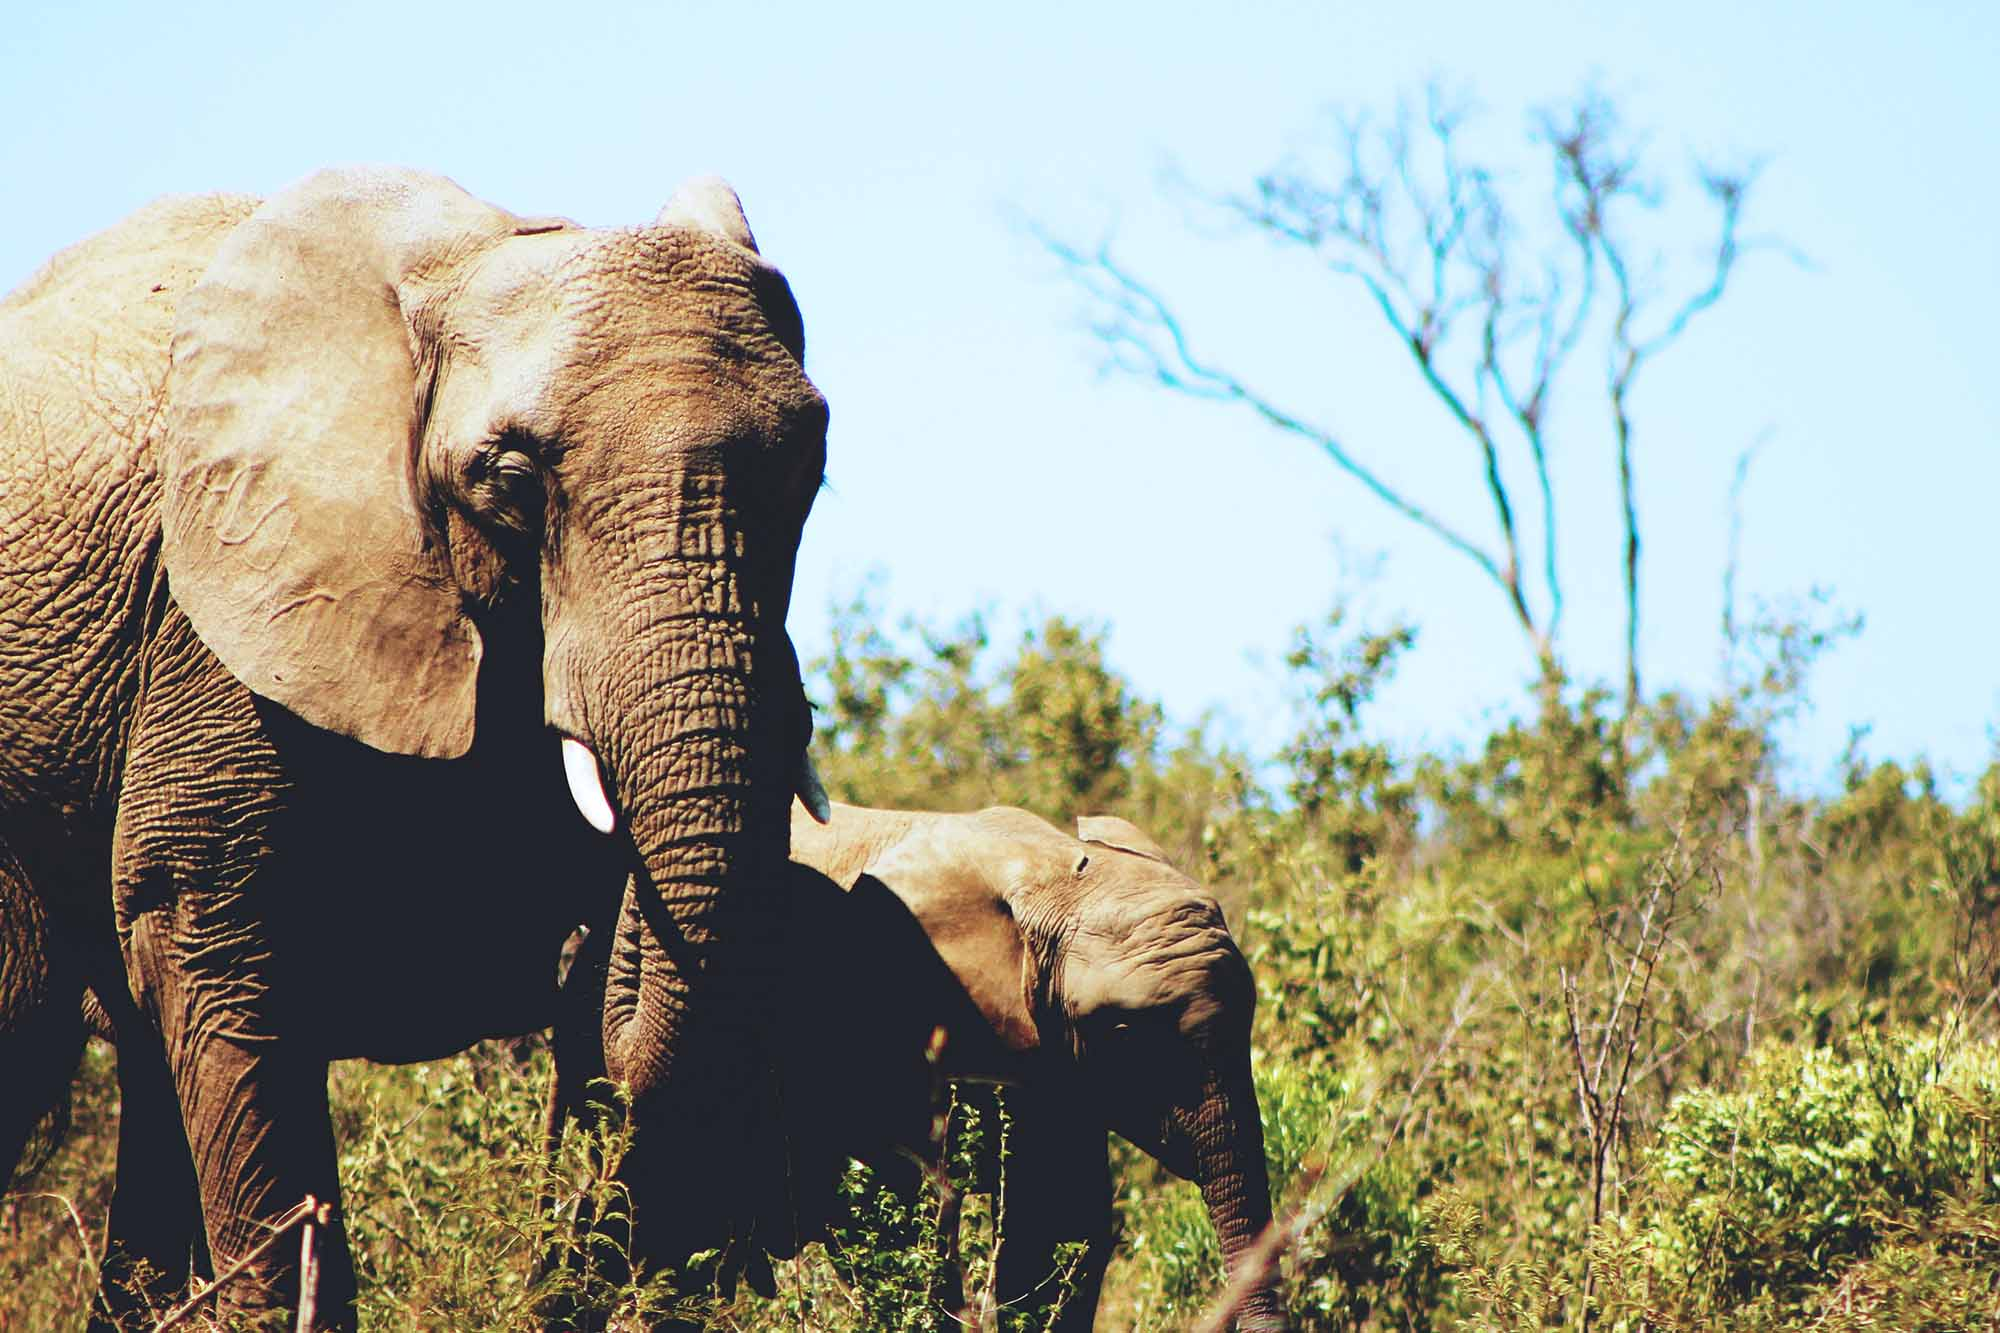
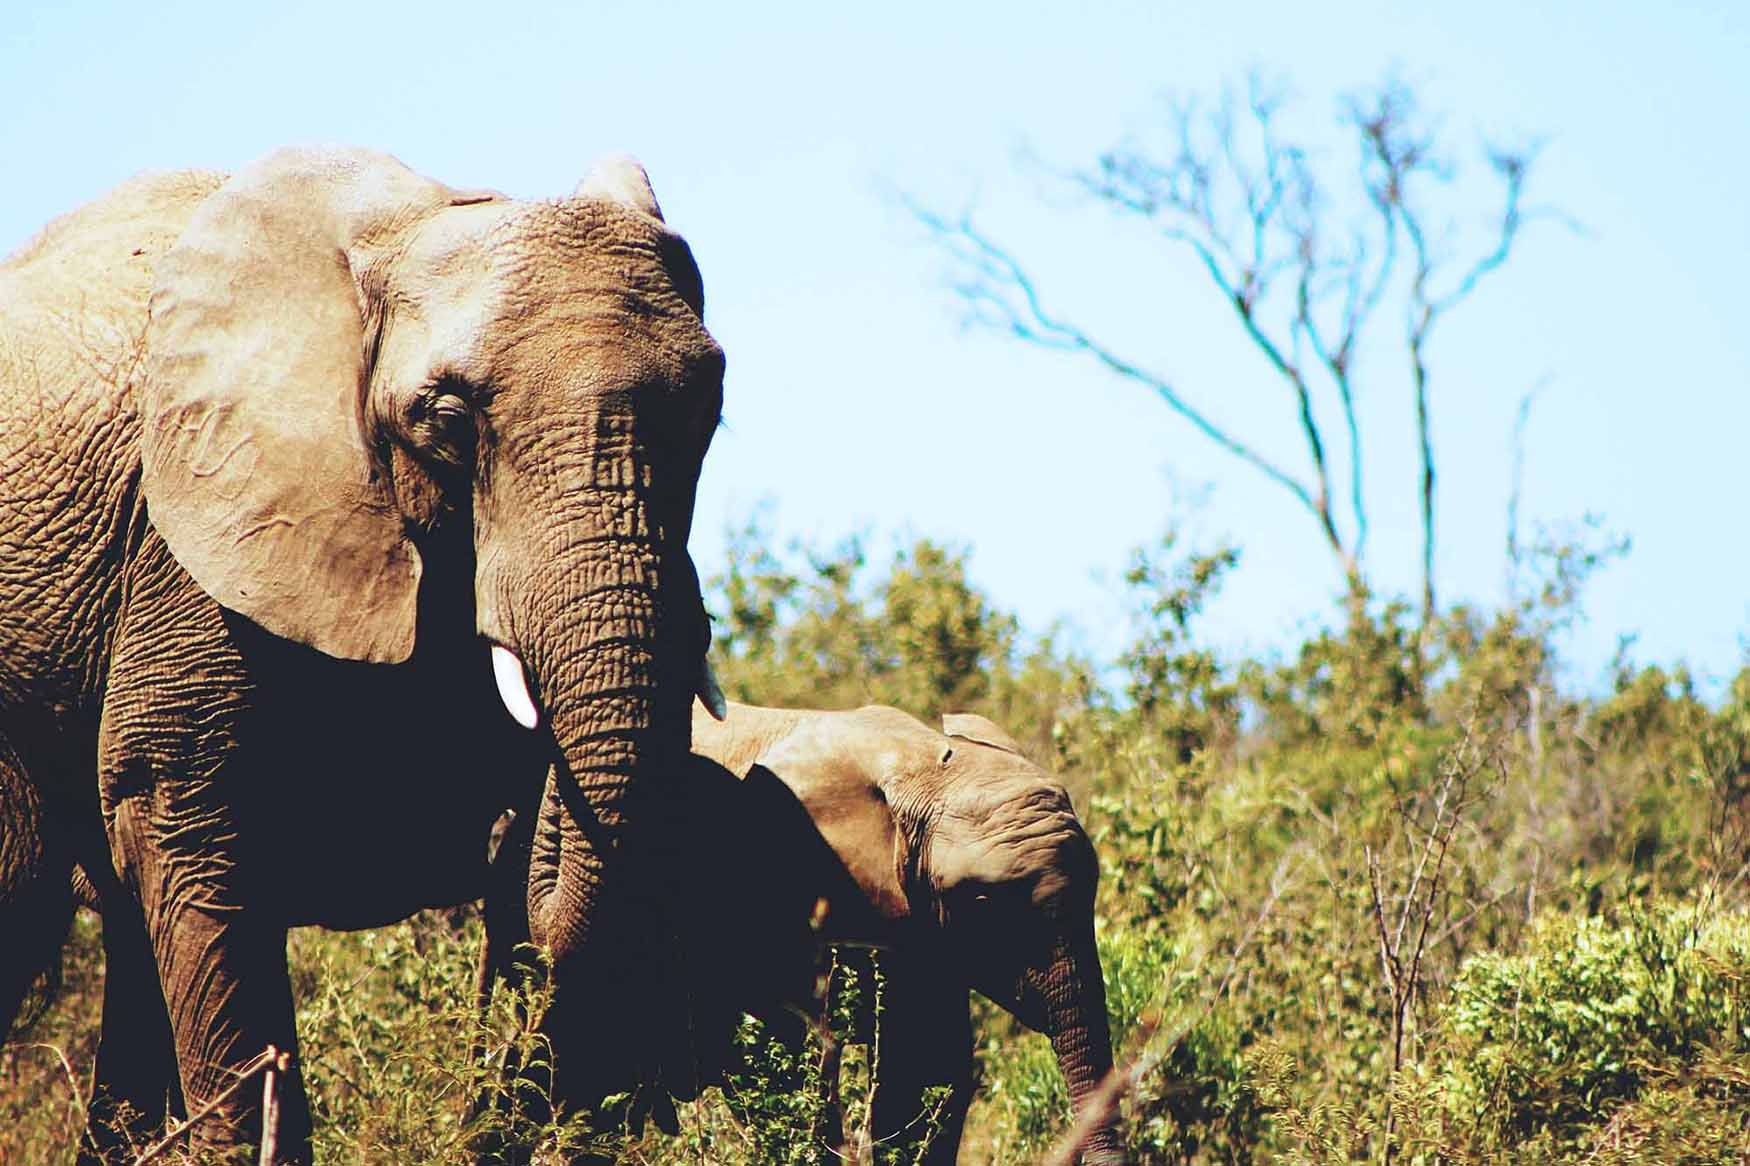
Change image size

diff --git a/index.html b/index.html
@@ -4,6 +4,8 @@
   <meta charset="utf-8">
   <title>Animal rescue site</title>
   <meta name="viewport" content="width=device-width,initial-scale=1">
+  <link href="favicon.ico" rel="shortcut icon">
+  <link rel="apple-touch-icon" href="favicon-196.png">
   <link href="css/modules.css" rel="stylesheet">
   <link href="css/grid.css" rel="stylesheet">
   <link href="css/type.css" rel="stylesheet">
@@ -12,13 +14,18 @@
 </head>
 <body>
 
+  <figure>
+  <div class="embed embed-4by3">
+    <img class="embed-item" src="dinos.jpg" alt="">
+  </div>
+</figure>
+
   <ul class="skip-links">
     <li><a href="#nav">Jump to nav</a></li>
     <li><a href="#main">Jump to main</a></li>
     <li><a href="#content">Jump to content</a></li>
     <li><a href="#about">Jump to about</a></li>
   </ul>
-
 
   <header role="banner">
     <div class="grid">
@@ -80,8 +87,6 @@
     </section>
   </main>
 
-
-
   <footer role="contentinfo" id="footer" tabindex="0">
     <div class="grid max-width micro pad-top">
       <div class="unit xs-1 s-1 m-1 l-1 xl-1 push-1 foot">
@@ -91,7 +96,6 @@
       </div>
     </div>
   </footer>
-
 
 </body>
 </html>

diff --git a/rescues.html b/rescues.html
@@ -4,6 +4,8 @@
   <meta charset="utf-8">
   <title>Rescues</title>
   <meta name="viewport" content="width=device-width,initial-scale=1">
+  <link href="favicon.ico" rel="shortcut icon">
+  <link rel="apple-touch-icon" href="favicon-196.png">
   <link href="css/modules.css" rel="stylesheet">
   <link href="css/grid.css" rel="stylesheet">
   <link href="css/type.css" rel="stylesheet">
@@ -19,10 +21,8 @@
     <li><a href="#about">Jump to about</a></li>
   </ul>
 
-
   <header role="banner" class="max-width">
     <div class="grid">
-
 
       <div class="gutter text-right pad-t-2 unit xs-1 s-1 m-1 l-3-4 xl-3-4 ">
         <nav tabindex="0" id="nav" role="navigation">
@@ -124,8 +124,6 @@
     </div>
   </section>
 
-
-
   <footer role="contentinfo" id="footer" tabindex="0">
     <div class="grid max-width micro pad-top">
       <div class="unit xs-1 s-1 m-1 l-1 xl-1 push-1 foot">
@@ -135,7 +133,7 @@
       </div>
     </div>
   </footer>
+</main>
 
-
-    </body>
-    </html>
+</body>
+</html>

diff --git a/adopt.html b/adopt.html
@@ -4,6 +4,8 @@
   <meta charset="utf-8">
   <title>Adoptions</title>
   <meta name="viewport" content="width=device-width,initial-scale=1">
+  <link href="favicon.ico" rel="shortcut icon">
+  <link rel="apple-touch-icon" href="favicon-196.png">
   <link href="css/modules.css" rel="stylesheet">
   <link href="css/grid.css" rel="stylesheet">
   <link href="css/type.css" rel="stylesheet">
@@ -19,10 +21,8 @@
     <li><a href="#about">Jump to about</a></li>
   </ul>
 
-
   <header role="banner" class="max-width">
     <div class="grid">
-
 
       <div class="gutter text-right pad-t-2 unit xs-1 s-1 m-1 l-3-4 xl-3-4 ">
         <nav tabindex="0" id="nav" role="navigation">
@@ -218,7 +218,6 @@
         </div>
       </div>
     </footer>
-
 
     </body>
     </html>

diff --git a/css/main.css b/css/main.css
@@ -28,7 +28,7 @@ header nav li a:hover {
 }
 
 .banner-container::before {
-  background: rgba(0, 0, 0, 0)-webkit-linear-gradient(bottom left, rgba(150, 150, 150, .5)0%, rgba(150, 150, 150, .5)100%) repeat;
+  background: rgba(0, 0, 0, 0) -webkit-linear-gradient(bottom left, rgba(150, 150, 150, .5) 0%, rgba(150, 150, 150, .5) 100%) repeat;
   content: "";
   position: absolute;
   display: block;

diff --git a/css/modules.css b/css/modules.css
@@ -10,6 +10,9 @@
 @-webkit-viewport { width: device-width; scale: 1; }
 @viewport { width: device-width; scale: 1; }
 
+<link href="favicon.ico" rel="shortcut icon">
+  <link rel="apple-touch-icon" href="favicon-196.png">
+  
 html {
   box-sizing: border-box;
   -moz-text-size-adjust: 100%;
